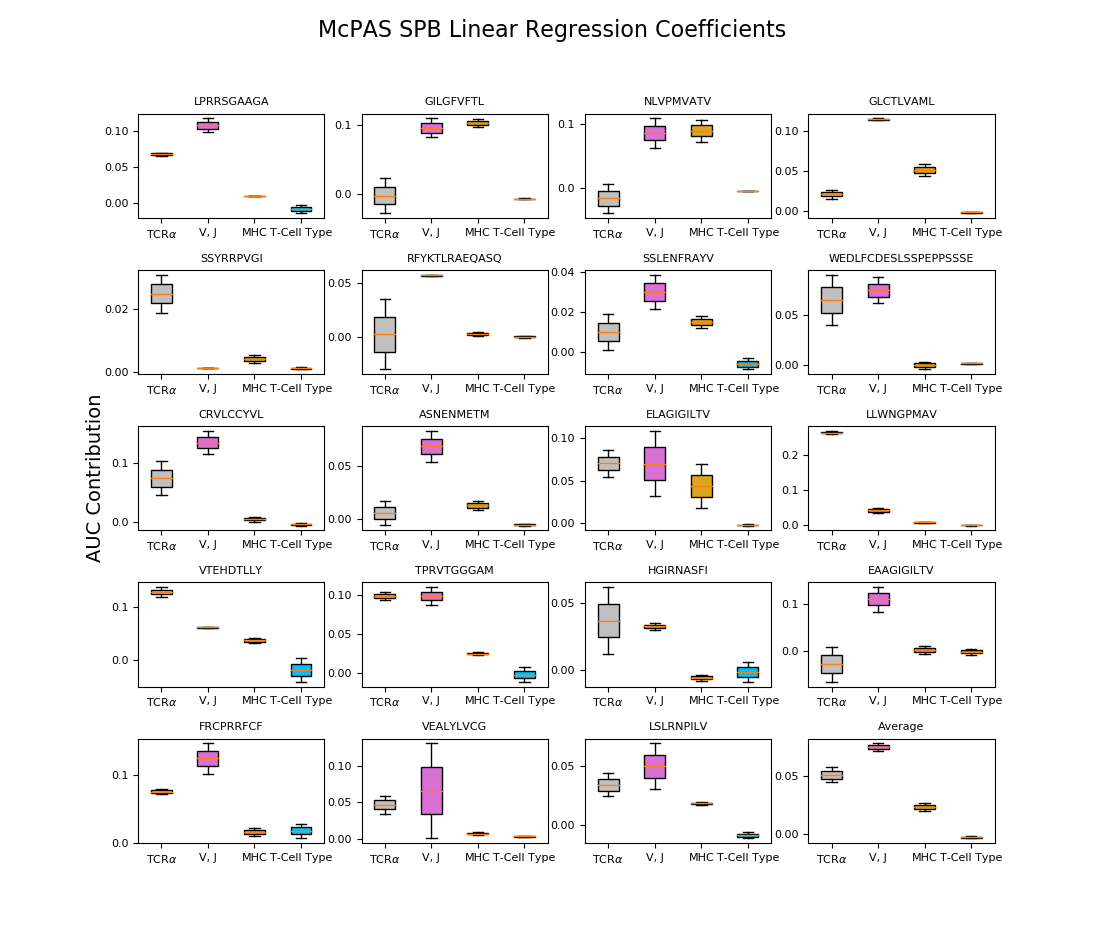
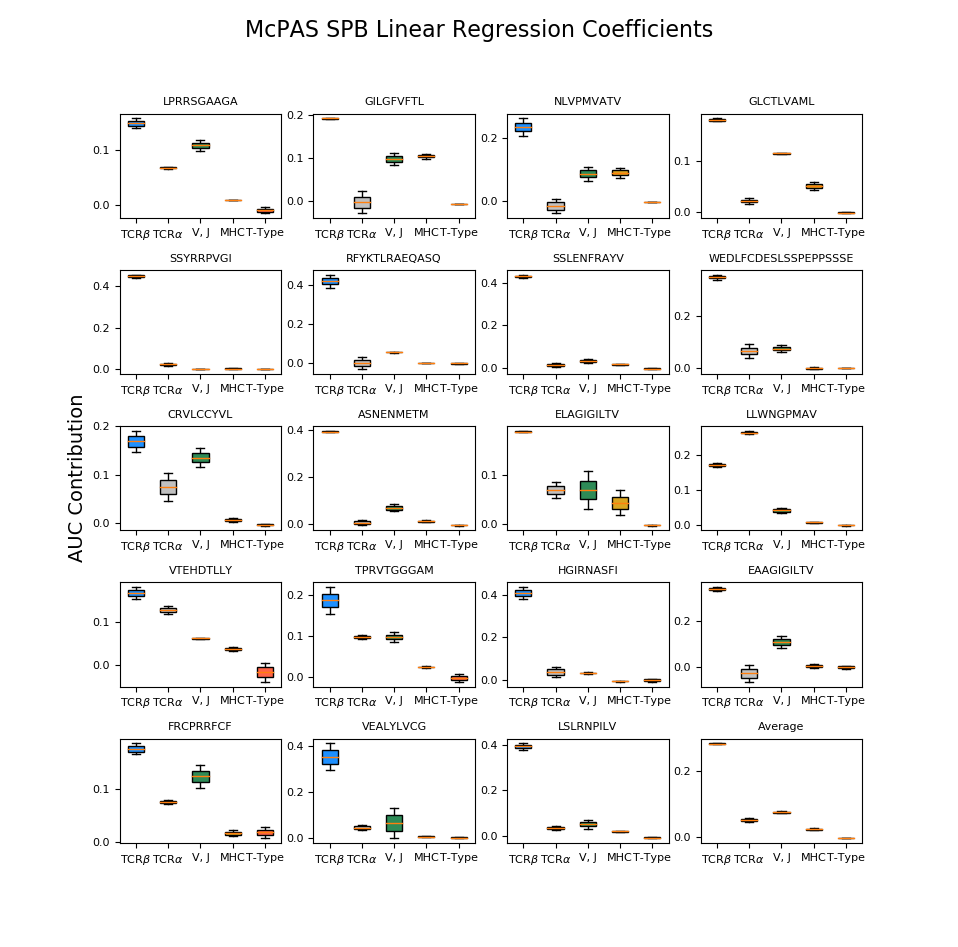
added TCR beta to SPB AUC contribution

diff --git a/plots/plots.py b/plots/plots.py
@@ -136,17 +136,21 @@ def spb_linear_regression_coefficients(results_file):
         lstm_results = [pep_results[i] for i in range(len(pep_results)) if not i % 2]
         reg_ae = LinearRegression().fit(X, ae_results)
         reg_lstm = LinearRegression().fit(X, lstm_results)
-        labels = ['TCR' + r'$\alpha$', 'V, J', 'MHC', 'T-Cell Type']
-        assert len(labels) == len(reg_ae.coef_.reshape(-1, 1))
-        plot_data = np.concatenate((reg_ae.coef_.reshape(-1, 1),
-                                    reg_lstm.coef_.reshape(-1, 1)), axis=1)
+        labels = ['TCR' + r'$\beta$', 'TCR' + r'$\alpha$', 'V, J', 'MHC', 'T-Type']
+        ae_plot = np.concatenate([np.array([reg_ae.intercept_ - 0.5]), reg_ae.coef_])
+        lstm_plot = np.concatenate([np.array([reg_lstm.intercept_ - 0.5]), reg_lstm.coef_])
+        assert len(labels) == len(ae_plot.reshape(-1, 1))
+        # plot_data = np.concatenate((reg_ae.coef_.reshape(-1, 1),
+        #                             reg_lstm.coef_.reshape(-1, 1)), axis=1)
+        plot_data = np.concatenate((ae_plot.reshape(-1, 1),
+                                    lstm_plot.reshape(-1, 1)), axis=1)
         avg.append(plot_data)
         plt.subplot(5, 4, j + 1)
         bplot = plt.boxplot(plot_data.T,
                             vert=True,  # vertical box alignment
                             patch_artist=True,  # fill with color
                             labels=labels),
-        colors = ['silver', 'orchid', 'goldenrod', 'deepskyblue']
+        colors = ['dodgerblue', 'silver', 'seagreen', 'goldenrod', 'tomato']
         for patch, color in zip(bplot[0]['boxes'], colors):
             patch.set_facecolor(color)
         # axes = plt.gca()
